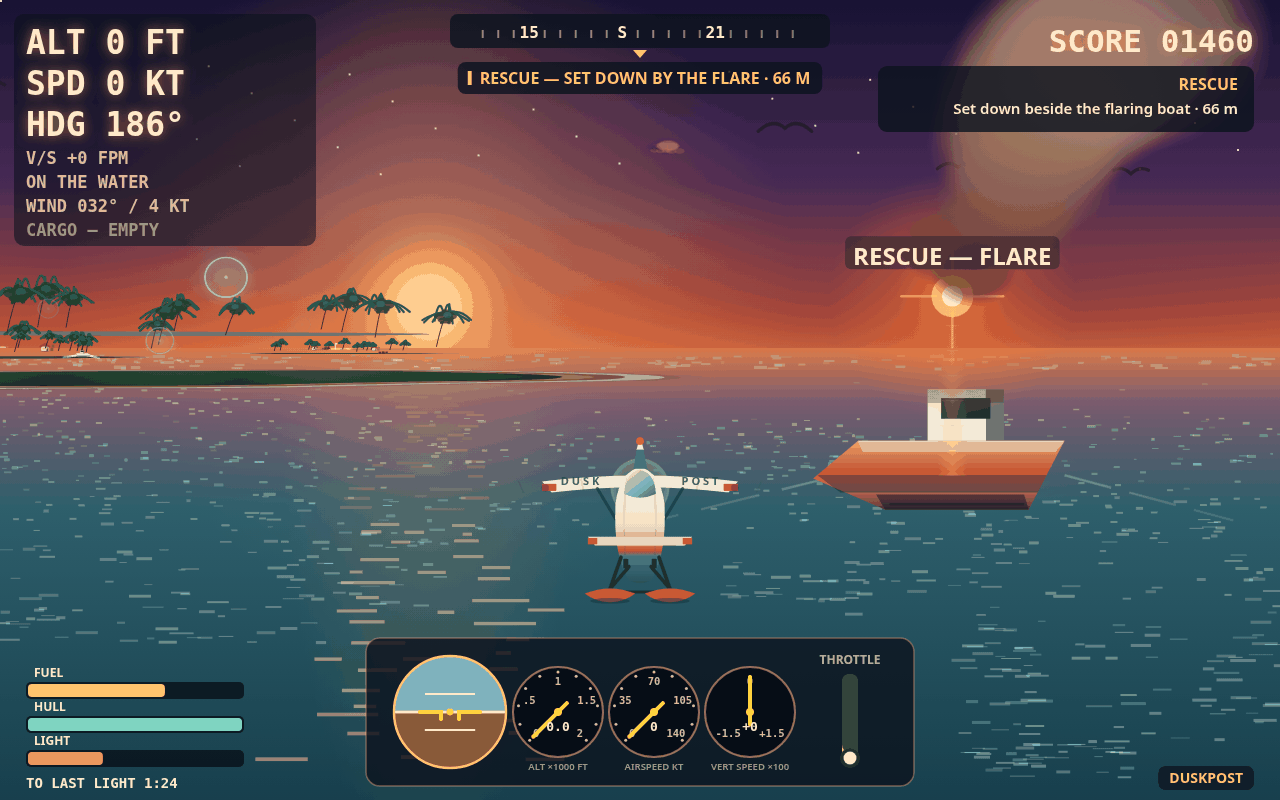
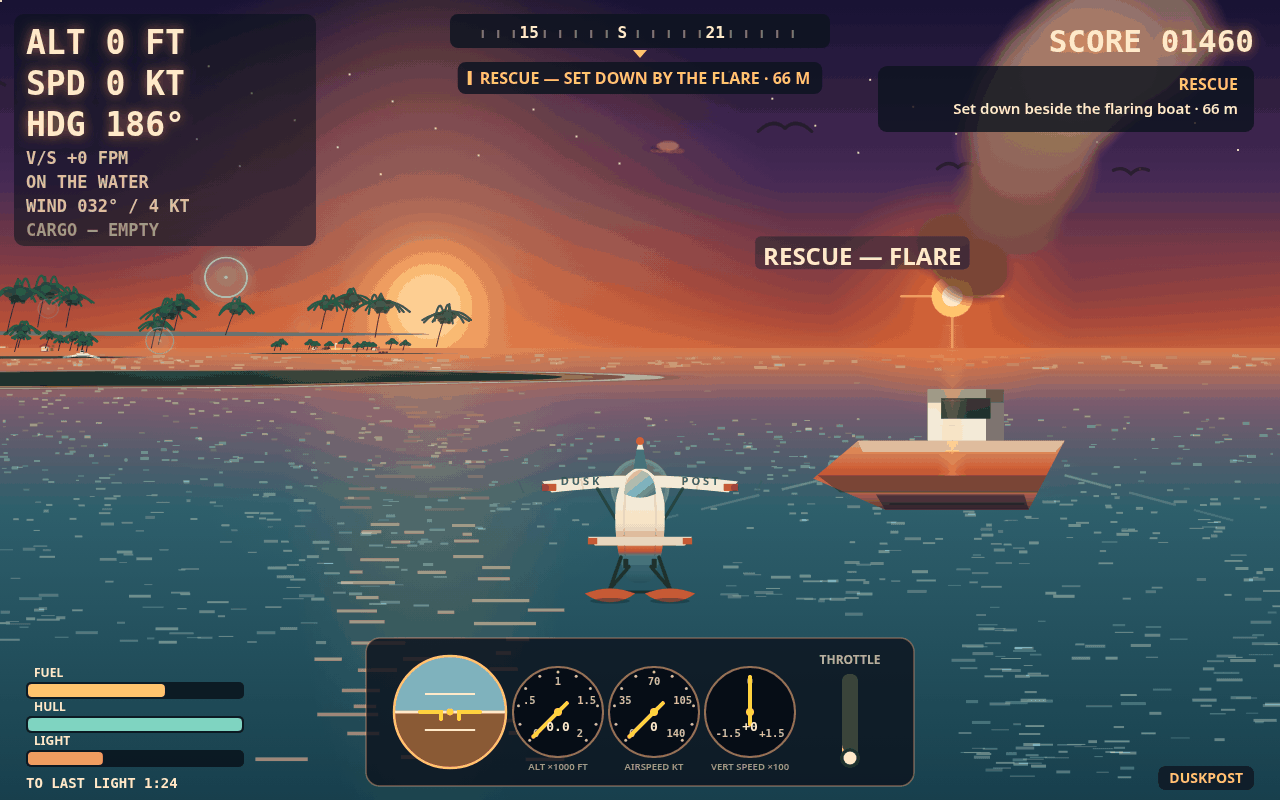
V48: the rescue has smoke now, and the cover's grass has dry gold in it (PLUME-DENSE-2 + LABEL-CLEAR + GRASS-STRAW)

diff --git a/game/src/render.js b/game/src/render.js
@@ -3975,6 +3975,40 @@ function drawIsland(ctx, v, isl, t, light, world) {
         ctx.ellipse(sp.x, sp.y, sr * sasp, sr * 0.75, srot, 0, Math.PI * 2);
         ctx.fill();
       }
+      // V48 GRASS-STRAW: the cover's grass band is textured now (V47)
+      // but still one flat green field in colour (79.2% green at judge
+      // size) — dry grass at last light reads warm. A straw-toned
+      // stubble companion in the same band, the same fixed-point
+      // height inversion and island clip as V47's pass, count 150,
+      // salts 141-146, radius floor 3.5, cap 5.0, dry-grass tones.
+      // The strip, huts and palms draw after this, on top. The
+      // approach grass 2x crop is the guard: if it turns scratchy,
+      // this reverts.
+      for (let i = 0; i < 150; i += 1) {
+        const sx = 100 + sh(i, 141) * 1180;
+        const sy = 400 + sh(i, 142) * 100;
+        let swx = 0, swz = 0, shgt = 0;
+        for (let it = 0; it < 3; it += 1) {
+          const ss = (sy - v.horizon) / (v.camY - shgt);
+          if (ss <= 0) break;
+          const sfwd = v.focal / ss;
+          const sright = (sx - VIEW_W / 2) / ss;
+          swx = v.camX + sfwd * v.sinH + sright * v.cosH;
+          swz = v.camZ + sfwd * v.cosH - sright * v.sinH;
+          shgt = world.heightAt(swx, swz);
+        }
+        const sp = project(v, swx, shgt, swz);
+        if (!sp || sp.x < 100 || sp.x > 1280 || sp.y < 400 || sp.y > 500) continue;
+        const sr = clamp(sp.s * 0.75, 3.5, 5.0) * (0.7 + sh(i, 144) * 0.6);
+        const srot = (sh(i, 145) - 0.5) * 1.05;
+        const sasp = 1.5 + sh(i, 146) * 1.5;
+        ctx.fillStyle = sh(i, 143) > 0.62
+          ? hexA(tone('#c2a15e', '#6b5326'), speckA * 1.17)
+          : hexA(toneLand('#8a6f3a', '#4a3a1c'), speckA * 1.3);
+        ctx.beginPath();
+        ctx.ellipse(sp.x, sp.y, sr * sasp, sr * 0.75, srot, 0, Math.PI * 2);
+        ctx.fill();
+      }
       ctx.restore();
     }
   }
@@ -5286,8 +5320,8 @@ function drawBoat(ctx, v, b, t) {
         ctx,
         p.x + jx * w * 0.22 + ph * w * 0.8,
         p.y - h * 2.9 - ph * h * 3.8,
-        (7 + ph * 19) * p.s * 0.4,
-        `rgba(${cr},${cg},${cb},${0.68 * (1 - ph * 0.12)})`,
+        (7 + ph * 11) * p.s * 0.4, // V48 PLUME-DENSE-2: narrower column, denser ink
+        `rgba(${cr},${cg},${cb},${0.82 * (1 - ph * 0.12)})`,
         `rgba(${cr},${cg},${cb},0)`,
         0.8,
       );

diff --git a/game/src/main.js b/game/src/main.js
@@ -281,12 +281,20 @@ function drawBeacon(ctx, view, t) {
       // on approach it stacked unreadably over the island against the
       // guidance ladder's own FINAL line naming the same island.
       const tw = ctx.measureText(label).width;
+      // V48 LABEL-CLEAR: the rescue plume drifts right of the flare,
+      // so the label centred on the flare covers the column's core
+      // (x1000-1049 at the pill's height). Rescue-only: shift the
+      // pill left 90 px, so its right edge (~978) clears the column
+      // while the pillar (x950-980) still passes behind the pill's
+      // right edge — the label stays attached to its beacon. Other
+      // missions' labels are untouched.
+      const labelX = m.kind === 'rescue' ? base.x - 90 : base.x;
       ctx.fillStyle = 'rgba(10,14,22,0.38)';
       ctx.beginPath();
-      ctx.roundRect(base.x - tw / 2 - 8, base.y - pillarH - 10 - fontPx - 5, tw + 16, fontPx + 9, 6);
+      ctx.roundRect(labelX - tw / 2 - 8, base.y - pillarH - 10 - fontPx - 5, tw + 16, fontPx + 9, 6);
       ctx.fill();
       ctx.fillStyle = '#ffe9c9';
-      ctx.fillText(label, base.x, base.y - pillarH - 10);
+      ctx.fillText(label, labelX, base.y - pillarH - 10);
     }
   }
 }
